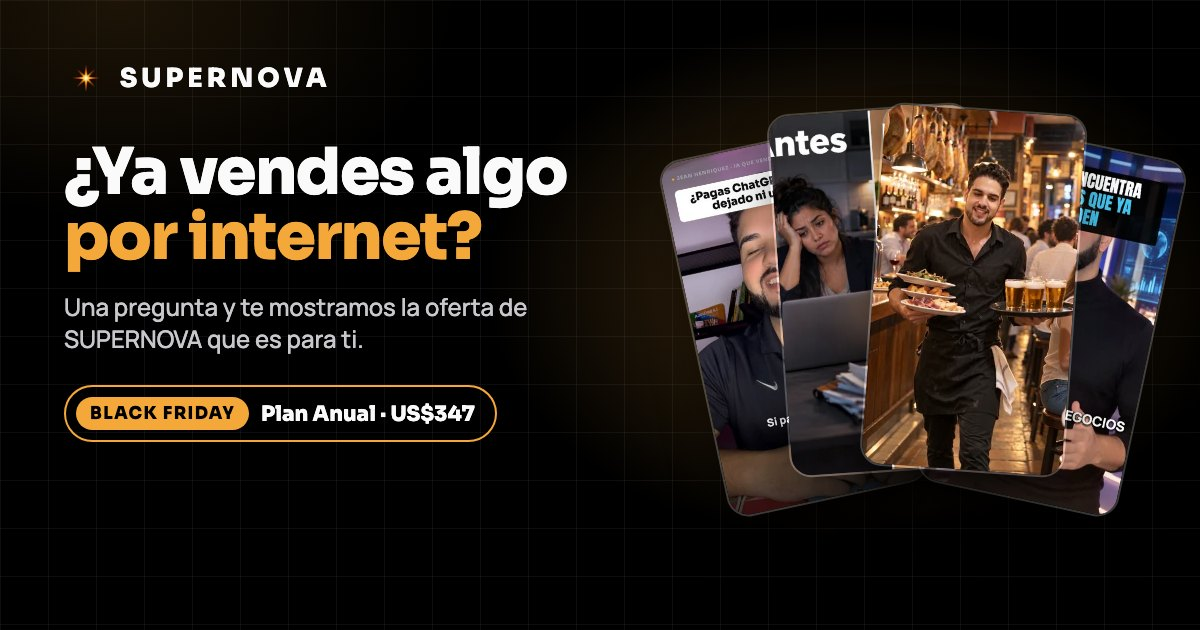
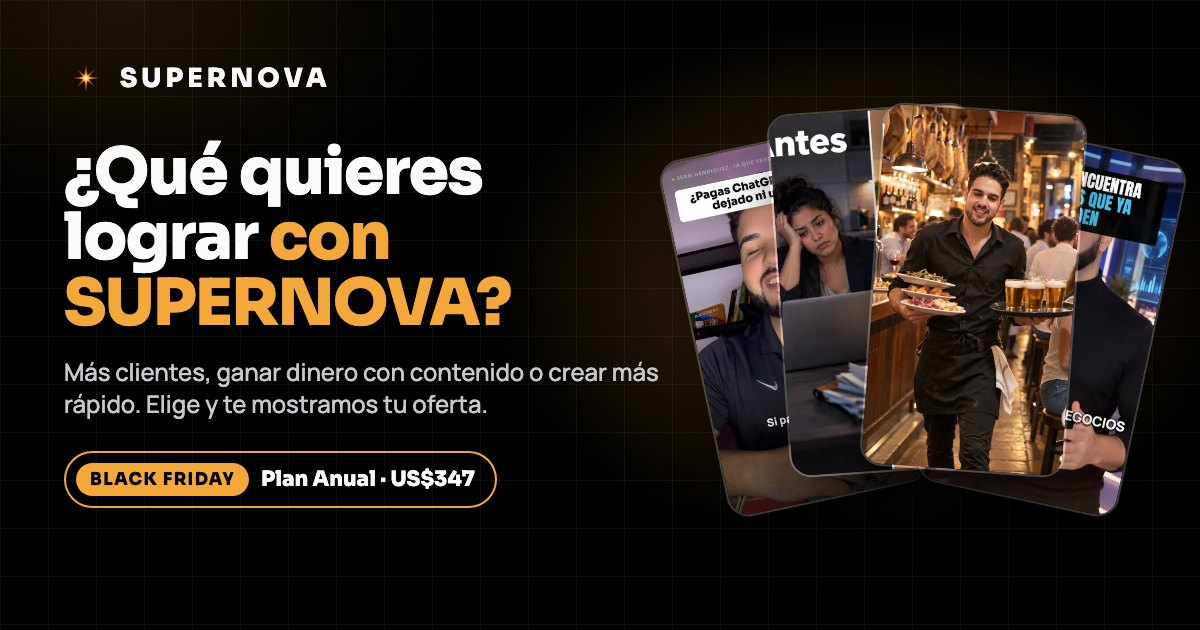
Puerta por objetivo: «¿Qué quieres lograr con SUPERNOVA?» con 3 caminos y promesa por sector
Jean (01-nov): «¿Ya vendes por internet?» mandaba al empresario sin ventas online a la página de «aprende una
profesión». Ahora:
- «Más clientes para mi negocio» → sector (carros, inmobiliaria, restaurante, belleza y salud, tienda, servicios,
  cursos y productos digitales, otro) → /nueva/negocios/?s=… con titular, texto, dolores e «Imagina…» de su sector.
- «Ganar dinero con contenido» (de cero o vendiendo poquito por WhatsApp) → /nueva/.
- «Crear más y más rápido» (creador, community manager, agencia) → /nueva/?p=creativo con su promesa.
Recuerda la ruta (sn_ruta2), pasa los utm_*, mide camino y sector. Nueva imagen para compartir de la puerta.

Changed region(s): [[0.0308, 0.2111, 0.555, 0.8143]]

diff --git a/public/empezar/index.html b/public/empezar/index.html
@@ -3,8 +3,8 @@
 <head>
 <meta charset="utf-8">
 <meta name="viewport" content="width=device-width, initial-scale=1, viewport-fit=cover">
-<title>SUPERNOVA · ¿Ya vendes algo por internet?</title>
-<meta name="description" content="Una pregunta y te mostramos la oferta de SUPERNOVA que es para ti. Black Friday: Plan Anual con todo incluido por US$347.">
+<title>SUPERNOVA · ¿Qué quieres lograr?</title>
+<meta name="description" content="Más clientes para tu negocio, ganar dinero con contenido o crear más rápido: elige y te mostramos tu oferta. Black Friday: Plan Anual por US$347.">
 <link rel="canonical" href="https://supernova-six-eta.vercel.app/empezar/">
 <link rel="icon" href="/favicon.ico" sizes="any">
 <link rel="icon" type="image/png" sizes="192x192" href="/icon-192.png">
@@ -13,15 +13,15 @@
 <meta property="og:site_name" content="SUPERNOVA">
 <meta property="og:locale" content="es_LA">
 <meta property="og:url" content="https://supernova-six-eta.vercel.app/empezar/">
-<meta property="og:title" content="SUPERNOVA · ¿Ya vendes algo por internet?">
-<meta property="og:description" content="Una pregunta y te mostramos la oferta de SUPERNOVA que es para ti. Black Friday: Plan Anual con todo incluido por US$347.">
+<meta property="og:title" content="SUPERNOVA · ¿Qué quieres lograr?">
+<meta property="og:description" content="Más clientes para tu negocio, ganar dinero con contenido o crear más rápido: elige y te mostramos tu oferta. Black Friday: Plan Anual por US$347.">
 <meta property="og:image" content="https://supernova-six-eta.vercel.app/empezar/og.jpg">
 <meta property="og:image:width" content="1200">
 <meta property="og:image:height" content="630">
-<meta property="og:image:alt" content="SUPERNOVA · ¿Ya vendes algo por internet?">
+<meta property="og:image:alt" content="SUPERNOVA · ¿Qué quieres lograr?">
 <meta name="twitter:card" content="summary_large_image">
-<meta name="twitter:title" content="SUPERNOVA · ¿Ya vendes algo por internet?">
-<meta name="twitter:description" content="Una pregunta y te mostramos la oferta de SUPERNOVA que es para ti. Black Friday: Plan Anual con todo incluido por US$347.">
+<meta name="twitter:title" content="SUPERNOVA · ¿Qué quieres lograr?">
+<meta name="twitter:description" content="Más clientes para tu negocio, ganar dinero con contenido o crear más rápido: elige y te mostramos tu oferta. Black Friday: Plan Anual por US$347.">
 <meta name="twitter:image" content="https://supernova-six-eta.vercel.app/empezar/og.jpg">
 <meta name="robots" content="index, follow, max-image-preview:large">
 <meta name="theme-color" content="#000000">
@@ -52,6 +52,14 @@
 .way span{color:var(--fg2);font-size:15px}
 .way em{font-style:normal;margin-top:auto;padding-top:10px;font:700 15px Sora,sans-serif;color:var(--amber)}
 .gate .note{margin-top:22px;color:var(--mut);font-size:14px}
+.ways.w3{grid-template-columns:repeat(3,minmax(0,1fr));max-width:1080px}
+button.way{font:inherit;color:inherit;text-align:left;cursor:pointer;padding:0}
+.secs{display:grid;grid-template-columns:repeat(4,minmax(0,1fr));gap:12px;max-width:900px;margin:32px auto 0}
+.sec-c{display:flex;flex-direction:column;align-items:center;gap:10px;border:1px solid var(--line2);border-radius:20px;padding:22px 12px;background:var(--card2);font-size:34px;text-decoration:none;color:var(--fg);cursor:pointer;transition:border-color .2s,transform .2s}
+.sec-c b{font:700 15px Sora,sans-serif;text-align:center}
+.sec-c:hover,.sec-c:focus-visible{border-color:var(--amber);transform:translateY(-2px);outline:none}
+.back{margin-top:22px;color:var(--fg2);font:600 15px Manrope,sans-serif;background:none;border:0;cursor:pointer}
+@media(max-width:900px){.ways.w3{grid-template-columns:minmax(0,1fr)}.secs{grid-template-columns:repeat(2,minmax(0,1fr))}}
 @media(max-width:700px){.ways{grid-template-columns:minmax(0,1fr)}.way .im{aspect-ratio:21/9}}
 @media(prefers-reduced-motion:reduce){.way{transition:none}}
 </style>
@@ -60,29 +68,54 @@
 <main class="gate">
   <div class="wrap">
     <a class="logo" href="#" aria-label="SUPERNOVA"><img src="/supernova-icon.webp" alt="" width="26" height="26">SUPERNOVA</a>
-    <h1>¿Ya vendes algo por internet?</h1>
-    <p class="sub">Responde y te mostramos la oferta que es para ti. Te toma 5 segundos.</p>
-    <div class="ways">
-      <a class="way" href="/nueva/negocios/" data-ruta="negocios">
-        <div class="im"><img src="/ejemplos-creativos/antes_despues.webp" alt="" width="640" height="360"></div>
-        <div class="tx"><b>Sí, ya vendo</b><span>Tienda, curso, servicio o producto de afiliado. Quiero anuncios que vendan más.</span><em>Ver mi oferta →</em></div>
-      </a>
-      <a class="way" href="/nueva/" data-ruta="comunes">
-        <div class="im"><img src="/nueva/media/reel-ia.jpg" alt="" width="640" height="360"></div>
-        <div class="tx"><b>Todavía no, quiero empezar</b><span>Quiero crear contenido con IA y empezar a cobrar por hacerlo.</span><em>Ver mi oferta →</em></div>
-      </a>
+
+    <div id="paso1">
+      <h1>¿Qué quieres lograr con SUPERNOVA?</h1>
+      <p class="sub">Elige y te mostramos la oferta pensada para ti. Te toma 5 segundos.</p>
+      <div class="ways w3">
+        <button type="button" class="way" data-camino="negocio">
+          <div class="im"><img src="/nueva/media/restaurante.jpg" alt="" width="640" height="360"></div>
+          <div class="tx"><b>Más clientes para mi negocio</b><span>Tengo un negocio, venda o no por internet: carros, casas, comida, belleza, tienda, servicios…</span><em>Elegir →</em></div>
+        </button>
+        <a class="way" href="/nueva/" data-ruta="/nueva/" data-camino="cero">
+          <div class="im"><img src="/nueva/media/reel-ia.jpg" alt="" width="640" height="360"></div>
+          <div class="tx"><b>Ganar dinero con contenido</b><span>Empiezo de cero o vendo poquito por WhatsApp. Quiero aprender y cobrar por esto.</span><em>Ver mi oferta →</em></div>
+        </a>
+        <a class="way" href="/nueva/?p=creativo" data-ruta="/nueva/?p=creativo" data-camino="creativo">
+          <div class="im"><img src="/nueva/media/formatos/lista.jpg" alt="" width="640" height="360"></div>
+          <div class="tx"><b>Crear más y más rápido</b><span>Soy creador, community manager o agencia. Hago contenido para mi marca o la de mis clientes.</span><em>Ver mi oferta →</em></div>
+        </a>
+      </div>
     </div>
+
+    <div id="paso2" hidden>
+      <h1>¿De qué es tu negocio?</h1>
+      <p class="sub">Así te mostramos ejemplos de tu sector.</p>
+      <div class="secs">
+        <a class="sec-c" data-ruta="/nueva/negocios/?s=auto">🚗<b>Carros y motos</b></a>
+        <a class="sec-c" data-ruta="/nueva/negocios/?s=inmobiliaria">🏠<b>Inmobiliaria</b></a>
+        <a class="sec-c" data-ruta="/nueva/negocios/?s=restaurante">🍽<b>Restaurante y comida</b></a>
+        <a class="sec-c" data-ruta="/nueva/negocios/?s=belleza">💅<b>Belleza y salud</b></a>
+        <a class="sec-c" data-ruta="/nueva/negocios/?s=tienda">🛍<b>Tienda física u online</b></a>
+        <a class="sec-c" data-ruta="/nueva/negocios/?s=servicios">💼<b>Servicios profesionales</b></a>
+        <a class="sec-c" data-ruta="/nueva/negocios/?s=digital">🎓<b>Cursos y productos digitales</b></a>
+        <a class="sec-c" data-ruta="/nueva/negocios/?s=otro">✨<b>Otro negocio</b></a>
+      </div>
+      <button type="button" class="back" id="volver">← Volver</button>
+    </div>
+
     <p class="note">Black Friday · Plan Anual con precio especial hasta el 31 de diciembre</p>
   </div>
 </main>
 <script>
-/* Lleva a cada persona a su página de venta y recuerda la respuesta (?q=1 vuelve a preguntar).
-   Los parámetros del anuncio (utm_*, fbclid…) siguen hacia la página elegida y de ahí al pago. */
+/* Puerta de las páginas de venta (Jean, 01-nov): se pregunta por el OBJETIVO, no por si ya vende por internet.
+   Negocio → sector → /nueva/negocios/?s=… · Empezar de cero → /nueva/ · Creativo → /nueva/?p=creativo.
+   Recuerda la ruta (?q=1 vuelve a preguntar) y pasa los utm_* a la página elegida. */
 (function () {
-  var KEY = "sn_ruta", RUTAS = { negocios: "/nueva/negocios/", comunes: "/nueva/" };
+  var KEY = "sn_ruta2";
   var qs = new URLSearchParams(location.search), utm = new URLSearchParams();
   qs.forEach(function (v, k) { if (/^(utm_|fbclid|gclid|ttclid)/.test(k)) utm.set(k, v); });
-  var go = function (ruta) { var u = utm.toString(); location.href = RUTAS[ruta] + (u ? "?" + u : ""); };
+  var withUtm = function (ruta) { var u = utm.toString(); return u ? ruta + (ruta.indexOf("?") > -1 ? "&" : "?") + u : ruta; };
   var official = location.hostname === "supernova-six-eta.vercel.app", q = [];
   var track = function (ev, p) { if (window.posthog && posthog.capture) posthog.capture(ev, p); else q.push([ev, p]); };
   if (official) {
@@ -91,17 +124,23 @@
     document.head.appendChild(s);
   }
   var guardada = null; try { guardada = localStorage.getItem(KEY); } catch (e) {}
-  if (guardada && RUTAS[guardada] && qs.get("q") !== "1") { go(guardada); return; }
+  if (guardada && /^\/nueva\//.test(guardada) && qs.get("q") !== "1") { location.replace(withUtm(guardada)); return; }
   track("ruta_view", { utm_source: utm.get("utm_source") || null });
-  document.querySelectorAll("[data-ruta]").forEach(function (a) {
-    var u = utm.toString(); if (u) a.href += "?" + u;
-    a.addEventListener("click", function (ev) {
-      var ruta = a.getAttribute("data-ruta");
-      try { localStorage.setItem(KEY, ruta); } catch (e) {}
-      track("ruta_elegida", { ruta: ruta });
-      if (official && window.posthog) { ev.preventDefault(); setTimeout(function () { go(ruta); }, 150); }
-    });
+  var ir = function (ruta, camino, ev) {
+    try { localStorage.setItem(KEY, ruta); } catch (e) {}
+    track("ruta_elegida", { camino: camino, ruta: ruta });
+    if (ev) ev.preventDefault();
+    setTimeout(function () { location.href = withUtm(ruta); }, official ? 150 : 0);
+  };
+  document.querySelectorAll("a[data-ruta]").forEach(function (a) {
+    a.href = withUtm(a.getAttribute("data-ruta"));
+    a.addEventListener("click", function (ev) { ir(a.getAttribute("data-ruta"), a.getAttribute("data-camino") || "negocio", ev); });
   });
+  var p1 = document.getElementById("paso1"), p2 = document.getElementById("paso2");
+  document.querySelector('[data-camino="negocio"]').addEventListener("click", function () {
+    p1.hidden = true; p2.hidden = false; scrollTo(0, 0); track("ruta_negocio");
+  });
+  document.getElementById("volver").addEventListener("click", function () { p2.hidden = true; p1.hidden = false; });
 })();
 </script>
 </body>

diff --git a/public/nueva/venta.js b/public/nueva/venta.js
@@ -89,11 +89,83 @@ CFG.combo.price = FASE ? FASE.price : 0; CFG.combo.checkout = FASE ? FASE.checko
   if (src) src.innerHTML = AUD.tools.map(function (t) { return '<a href="' + t.u + '" rel="noopener" target="_blank">' + t.n + "</a>"; }).join(" · ");
   document.querySelectorAll("[data-p]").forEach(function (el) { var v = P[el.getAttribute("data-p")]; if (v != null) el.textContent = v; });
 
+  /* ---------- Promesa por sector (?s=) y para creativos (?p=creativo): la puerta /empezar/ manda aquí ---------- */
+  var PERS = {
+    auto: { h: "Más gente preguntando por tus carros.", a: "Sin agencia y en minutos.",
+      l: "Reels de tus carros, carruseles de ofertas y anuncios para Facebook e Instagram, hechos con IA en una sola app. Tú pones el carro; SUPERNOVA hace el resto.",
+      d: ["Carros que no rotan", "Fotos que no venden", "Anuncios que no traen citas", "Agencia cara", "Sin tiempo para publicar", "Curiosos que no compran", "7 suscripciones"],
+      f: [["Mañana", "Publicas el carro del día.", "Un reel con el carro en movimiento y su precio, listo en minutos."],
+          ["Esta semana", "Tu WhatsApp empieza a sonar.", "Anuncios con ángulos distintos para cada carro: precio, financiamiento, garantía."],
+          ["En 30 días", "Tu inventario se mueve en redes.", "Cada carro con su video, su carrusel y su anuncio, sin depender de nadie."],
+          ["En diciembre", "Vendes en la mejor época del año.", "Con campañas de fin de año listas mientras tu competencia todavía busca agencia."]] },
+    inmobiliaria: { h: "Más interesados en tus propiedades.", a: "Sin fotógrafo ni agencia.",
+      l: "Videos de recorrido, carruseles de cada propiedad y anuncios que llevan a tu WhatsApp, hechos con IA en una sola app.",
+      d: ["Propiedades que no se mueven", "Fotos sin vida", "Curiosos que no compran", "Agencia cara", "Sin tiempo para publicar", "Anuncios que no traen visitas", "7 suscripciones"],
+      f: [["Mañana", "Publicas la propiedad del día.", "Un reel con sus mejores espacios y su precio, en minutos."],
+          ["Esta semana", "Agendas más visitas.", "Anuncios con ángulos distintos: ubicación, precio, financiamiento."],
+          ["En 30 días", "Cada propiedad con su campaña.", "Video, carrusel y anuncio para cada una, sin esperar a nadie."],
+          ["En diciembre", "Cierras el año vendiendo.", "Con campañas listas para quienes buscan casa en enero."]] },
+    restaurante: { h: "Mesas llenas y pedidos por WhatsApp.", a: "Con contenido que da hambre.",
+      l: "Reels de tus platos, carruseles del menú y anuncios para tu zona, hechos con IA en una sola app. Sin fotógrafo ni community manager.",
+      d: ["Mesas vacías entre semana", "Fotos que no dan hambre", "No sabes qué publicar", "Community manager caro", "Sin tiempo", "Pedidos que no llegan", "7 suscripciones"],
+      f: [["Mañana", "Publicas el plato del día.", "Un reel que da hambre, listo antes de abrir."],
+          ["Esta semana", "Llenas los días flojos.", "Promos y anuncios para tu zona, cada uno con un ángulo distinto."],
+          ["En 30 días", "Tu menú vive en redes.", "Reels, carruseles y posts todos los días, sin contratar a nadie."],
+          ["En diciembre", "Tus cenas de fin de año, reservadas.", "Campañas de fiestas y eventos listas a tiempo."]] },
+    belleza: { h: "Tu agenda llena de citas.", a: "Con contenido que da confianza.",
+      l: "Antes y después, reels de tus servicios y anuncios que llevan a tu WhatsApp, hechos con IA en una sola app.",
+      d: ["Huecos en la agenda", "Clientes que no vuelven", "No sabes qué publicar", "Fotos sin impacto", "Agencia cara", "Sin tiempo", "7 suscripciones"],
+      f: [["Mañana", "Publicas tu antes y después.", "Listo en minutos, con tu marca."],
+          ["Esta semana", "Se llenan los huecos de tu agenda.", "Promos para los días flojos, cada una con su ángulo."],
+          ["En 30 días", "Tu marca se ve profesional.", "Reels, carruseles y anuncios todos los días, sin contratar a nadie."],
+          ["En diciembre", "Temporada alta, agenda llena.", "Campañas de fin de año listas a tiempo."]] },
+    tienda: { h: "Tus productos, vendiéndose en redes.", a: "Sin fotógrafo ni agencia.",
+      l: "Videos de producto, fotos tipo cliente, carruseles y anuncios, hechos con IA en una sola app. Y mira qué anuncios ya venden en tu categoría.",
+      d: ["Productos que no rotan", "Fotos de catálogo aburridas", "Anuncios que no venden", "Agencia cara", "Sin tiempo", "No sabes qué publicar", "7 suscripciones"],
+      f: [["Mañana", "Publicas el producto del día.", "Video y foto tipo cliente, listos en minutos."],
+          ["Esta semana", "Pruebas 5 ángulos en vez de 1.", "Lanzas varias versiones y en días ves cuál vende."],
+          ["En 30 días", "Tu catálogo vive en redes.", "Cada producto con su video, su carrusel y su anuncio."],
+          ["En diciembre", "Black Friday y Navidad, listos.", "Campañas armadas antes que tu competencia."]] },
+    servicios: { h: "Más clientes que ya confían en ti", a: "antes de llamarte.",
+      l: "Contenido que te muestra como experto, carruseles que educan y anuncios que llevan a tu agenda, hechos con IA en una sola app.",
+      d: ["Te piden precio y se van", "Nadie sabe lo que haces", "No sabes qué publicar", "Sin tiempo", "Agencia cara", "Te comparan con el más barato", "7 suscripciones"],
+      f: [["Mañana", "Publicas un consejo de experto.", "Un reel o un carrusel que responde lo que más te preguntan."],
+          ["Esta semana", "Te escriben los que ya confían.", "Anuncios que llevan a tu WhatsApp o a tu agenda."],
+          ["En 30 días", "Te conocen como el que sabe.", "Contenido todos los días, sin quitarle horas a tus clientes."],
+          ["En diciembre", "Arrancas enero con agenda.", "Campañas listas para quienes deciden a principio de año."]] },
+    otro: { h: "Más clientes para tu negocio.", a: "Sin agencia y en minutos.",
+      l: "Reels, carruseles, fotos y anuncios de tu negocio, hechos con IA en una sola app. Y mira qué anuncios ya funcionan en tu sector." },
+    creativo: { h: "Crea 30 piezas en una tarde.", a: "Y atiende más clientes sin contratar a nadie.",
+      l: "Reels, carruseles, imágenes, videos con IA y anuncios para tu marca o la de tus clientes, en una sola app. La voz de cada marca, guardada.",
+      d: ["Clientes que piden más", "Plazos imposibles", "Bloqueo creativo", "7 suscripciones", "Diseños que tardan", "Videos que tardan días", "Ideas repetidas"],
+      f: [["Mañana", "Entregas antes de lo prometido.", "Lo que te tomaba un día, listo en una tarde."],
+          ["Esta semana", "Sumas un cliente más.", "Con el mismo tiempo, más marcas atendidas."],
+          ["En 30 días", "Tu portafolio crece cada semana.", "Reels, carruseles y anuncios de varias marcas, con la voz de cada una."],
+          ["En diciembre", "Cobras más por entregar más rápido.", "Y cierras el año con clientes que se quedan."]] }
+  };
+  var qp = new URLSearchParams(location.search), clave = qp.get("p") === "creativo" ? "creativo" : qp.get("s");
+  var PS = PERS[clave];
+  if (PS) {
+    var h1 = document.getElementById("h1");
+    if (h1) h1.innerHTML = '<span class="w glow" style="animation-delay:.05s"></span> <span class="w amber" style="animation-delay:.25s"></span>';
+    if (h1) { h1.children[0].textContent = PS.h; h1.children[1].textContent = PS.a; }
+    var ld = document.querySelector(".hero .lead"); if (ld) ld.textContent = PS.l;
+    var pn = document.querySelector(".pains");
+    if (pn && PS.d) { pn.innerHTML = ""; PS.d.forEach(function (x) { var s = document.createElement("span"); s.textContent = x; pn.appendChild(s); }); }
+    if (PS.f) document.querySelectorAll("#futuro .fu").forEach(function (c, i) {
+      var x = PS.f[i]; if (!x) return;
+      c.querySelector(".fu-k").textContent = x[0]; c.querySelector("b").textContent = x[1]; c.querySelector("p").textContent = x[2];
+    });
+    var ft = document.getElementById("fu-t");
+    if (ft && clave !== "creativo") ft.innerHTML = 'Imagina tu negocio <span class="amber">dentro de 30 días.</span>';
+    document.documentElement.dataset.sector = clave;
+  }
+
   /* ---------- Medición (PostHog solo en el dominio oficial; mismos parámetros que la landing actual) ---------- */
   var official = location.hostname === CFG.officialHost;
   var q = [];
   window.snTrack = function (ev, props) {
-    props = Object.assign({ page: (window.AUD && AUD.page) || "venta", variant: document.documentElement.dataset.variant || "a" }, props || {});
+    props = Object.assign({ page: (window.AUD && AUD.page) || "venta", sector: document.documentElement.dataset.sector || null, variant: document.documentElement.dataset.variant || "a" }, props || {});
     if (window.posthog && window.posthog.capture) window.posthog.capture(ev, props); else q.push([ev, props]);
     if (!official && window.console) console.debug("[evento]", ev, props);
   };
